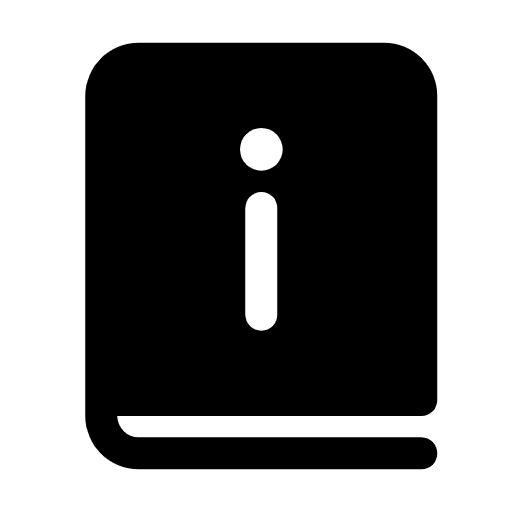
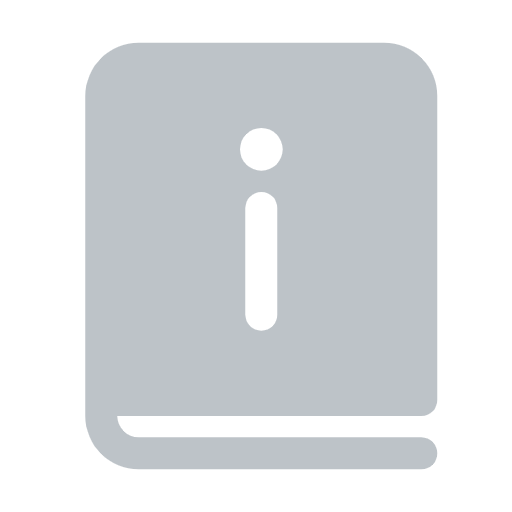
Refactored code and implemented dark theme.

diff --git a/main.py b/main.py
@@ -1,11 +1,20 @@
-from PyQt6.QtWidgets import QApplication, QVBoxLayout, QLabel, QWidget, QStatusBar, \
+from PyQt6.QtWidgets import QApplication, QVBoxLayout, QLabel, QStatusBar, \
     QLineEdit, QPushButton, QMainWindow, QTableWidget, QTableWidgetItem, QDialog, QComboBox, \
     QToolBar, QGridLayout, QMessageBox
 from PyQt6.QtGui import QAction, QIcon
 from PyQt6.QtCore import Qt
-
 import sys
 import sqlite3
+import qdarktheme
+
+
+class DatabaseConnection:
+    def __init__(self, database_file="database.db"):
+        self.database_file = database_file
+
+    def connect(self):
+        connection = sqlite3.connect(self.database_file)
+        return connection
 
 
 class MainWindow(QMainWindow):
@@ -74,7 +83,7 @@ class MainWindow(QMainWindow):
         dialog.exec()
 
     def load_data(self):
-        connection = sqlite3.connect("database.db")
+        connection = DatabaseConnection().connect()
         result = connection.execute("SELECT * FROM members")
         self.table.setRowCount(0)
         for row_number, row_data in enumerate(result):
@@ -141,7 +150,7 @@ class EditDialog(QDialog):
         self.setLayout(layout)
 
     def update(self):
-        connection = sqlite3.connect("database.db")
+        connection = DatabaseConnection().connect()
         cursor = connection.cursor()
         cursor.execute("UPDATE members SET name = ?, team = ?, email = ?, phone = ? WHERE id = ?",
                        (self.member_name.text(), self.team_name.itemText(self.team_name.currentIndex()),
@@ -179,7 +188,7 @@ class DeleteDialog(QDialog):
     def delete_member(self):
         index = team_manager.table.currentRow()
         member_id = team_manager.table.item(index, 0).text()
-        connection = sqlite3.connect("database.db")
+        connection = DatabaseConnection().connect()
         cursor = connection.cursor()
         cursor.execute("DELETE from members WHERE id = ?", (member_id, ))
         connection.commit()
@@ -230,7 +239,7 @@ class InsertDialog(QDialog):
         team = self.team_name.itemText(self.team_name.currentIndex())
         email = self.email.text()
         phone = self.phone.text()
-        connection = sqlite3.connect("database.db")
+        connection = DatabaseConnection().connect()
         cursor = connection.cursor()
         cursor.execute("INSERT INTO members (name, team, email, phone) VALUES (?, ?, ?, ?)",
                        (name, team, email, phone))
@@ -238,6 +247,13 @@ class InsertDialog(QDialog):
         cursor.close()
         connection.close()
         team_manager.load_data()
+
+        self.close()
+
+        confirmation_widget = QMessageBox()
+        confirmation_widget.setWindowTitle("Success")
+        confirmation_widget.setText("Member successfully added!")
+        confirmation_widget.exec()
 
 
 class Query(QDialog):
@@ -260,7 +276,7 @@ class Query(QDialog):
 
     def search(self):
         name = self.search_bar.text()
-        connection = sqlite3.connect("database.db")
+        connection = DatabaseConnection().connect()
         cursor = connection.cursor()
         result = cursor.execute("SELECT * FROM members WHERE name = ?", (name, ))
         rows = list(result)
@@ -275,6 +291,7 @@ class Query(QDialog):
 
 
 app = QApplication(sys.argv)
+qdarktheme.setup_theme()
 team_manager = MainWindow()
 team_manager.show()
 team_manager.load_data()
